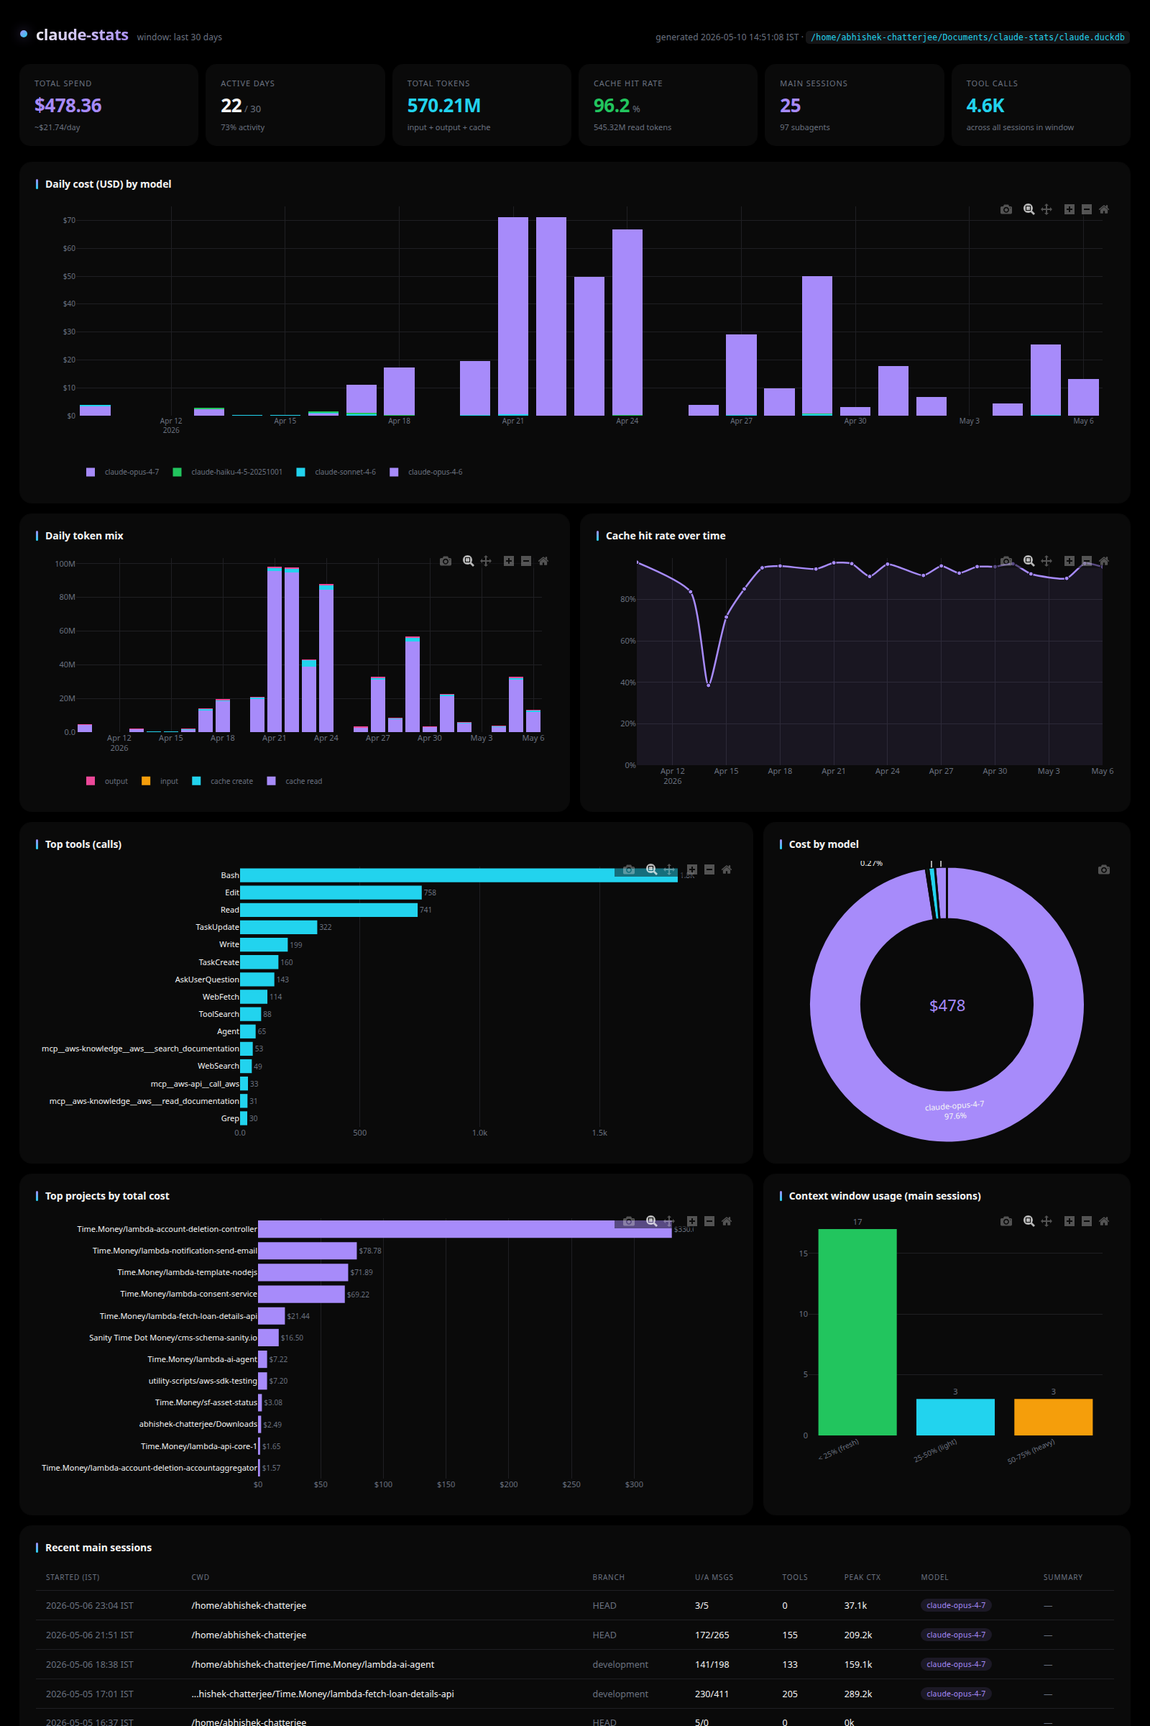
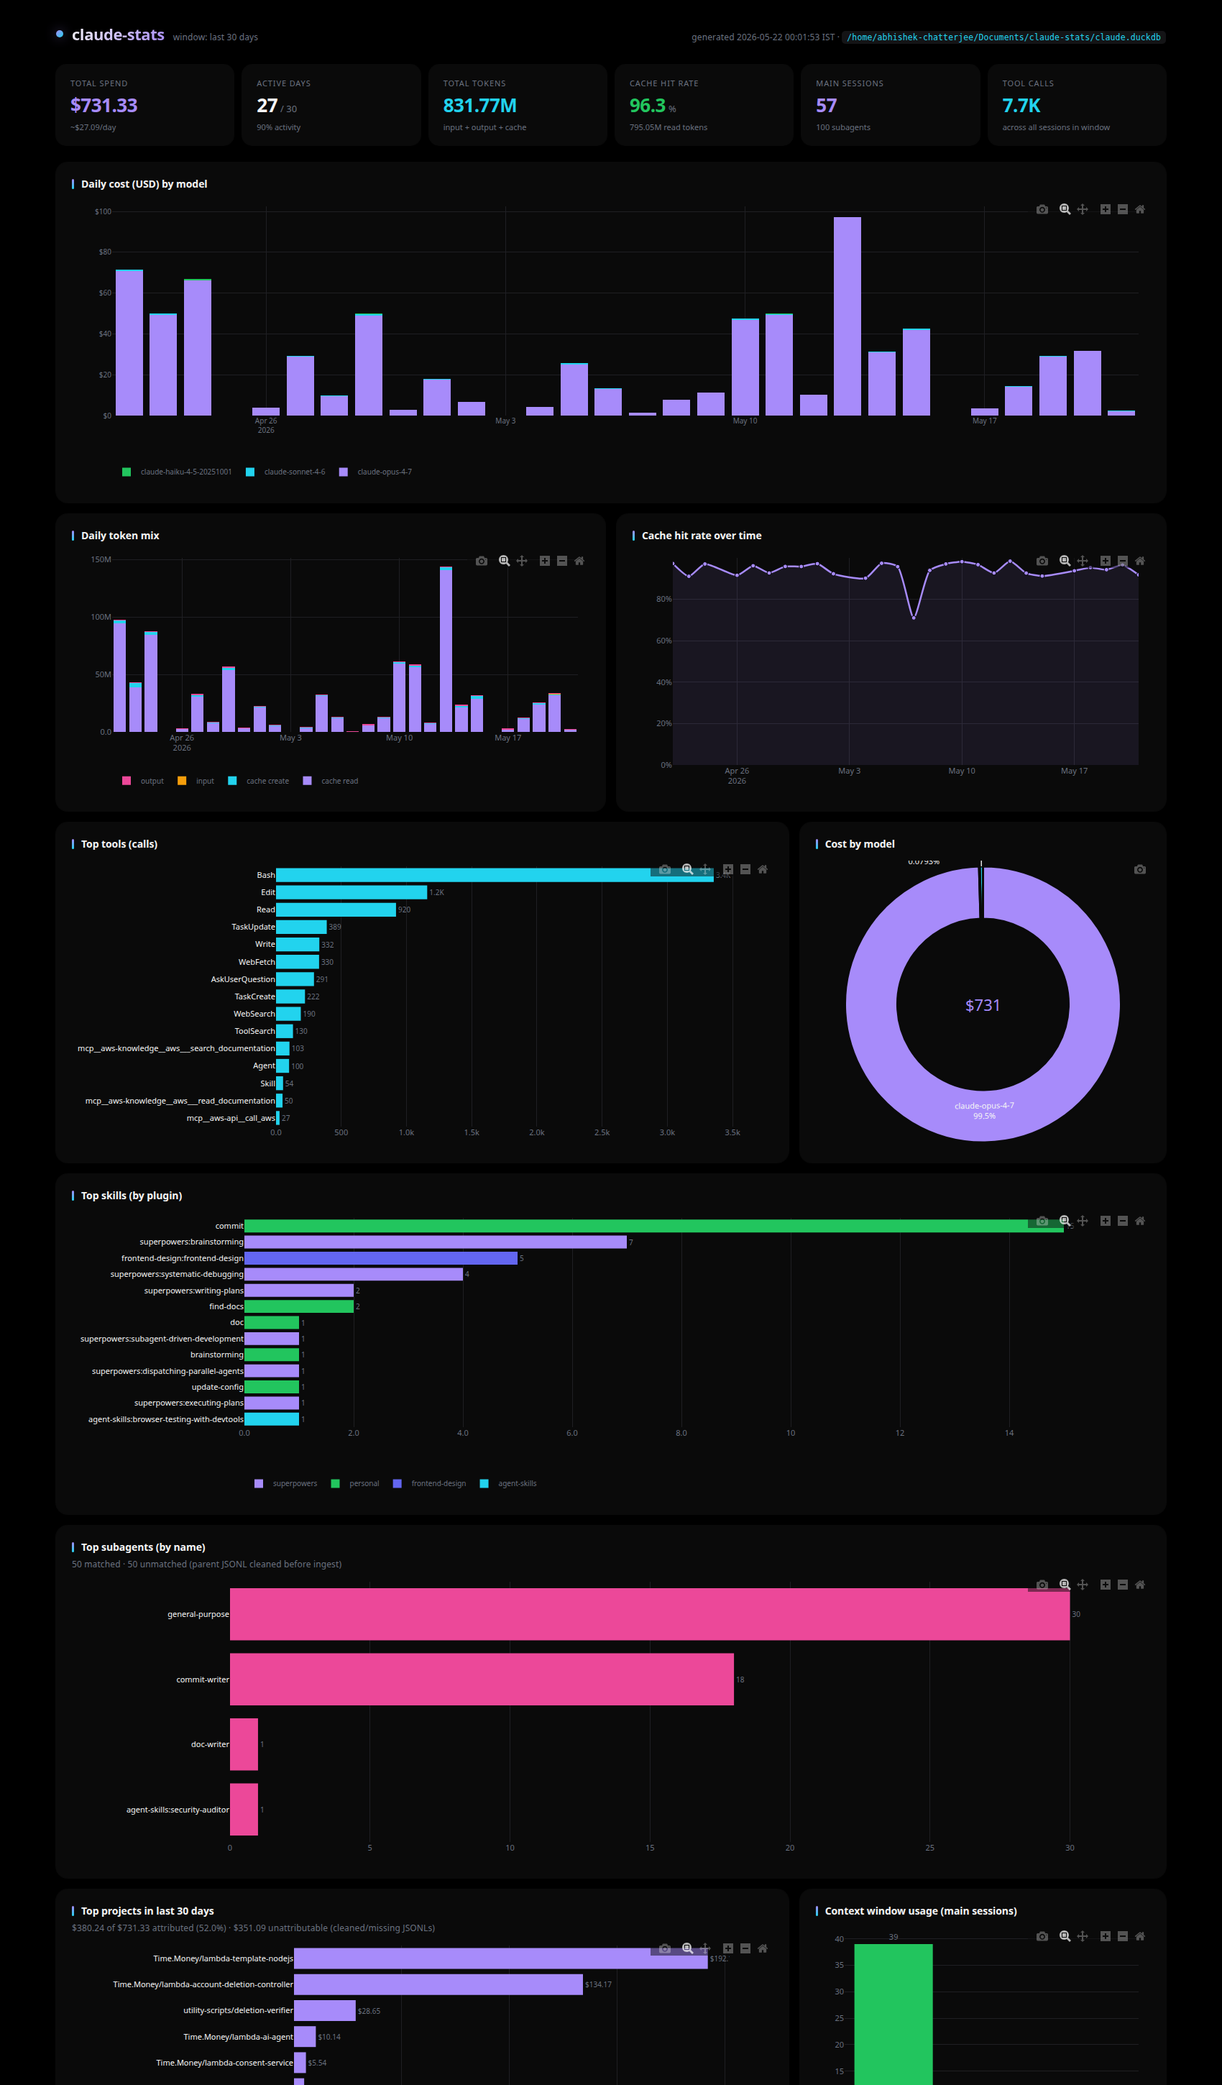
feat: add per-subagent name attribution (v5)
- schema.sql: ADD COLUMN IF NOT EXISTS agent_type VARCHAR on
  conversations (nullable; only populated for kind='subagent' when
  parent JSONL is on disk)
- ingest-sessions.py: two-pass match — pass 1 extracts Agent tool_use
  subagent_type and pairs it to the agentId hex via regex on tool_result
  content; pass 2 backfills agent_type on all subagent rows using the
  merged map; prints matched/total count
- build-dashboard.sh: two new DuckDB queries (TOP_SUBAGENTS,
  SUBAGENT_COVERAGE) and a renderSubagents() Plotly horizontal bar
  panel inserted between Top Skills and Top Projects; footer shows
  matched · unmatched counts
- README.md, docs/index.html, docs/claude-stats.html,
  docs/walkthrough.html: document new column, panel, two-pass
  algorithm, and updated query count (10→12)
- docs/claude-stats-dashboard.png: refreshed screenshot showing the
  new subagents panel

diff --git a/docs/claude-stats.html b/docs/claude-stats.html
@@ -41,9 +41,10 @@
                     <code>build-dashboard.sh</code> to regenerate
                     <code>/tmp/claude-stats-dashboard.html</code>, then
                     <code>xdg-open</code>s it. Plotly charts: cost stacked-by-model,
-                    daily token mix, cache hit rate, top tools, cost-by-model donut,
-                    top projects, context-window distribution. Pass <code>30</code> /
-                    <code>90</code> / <code>365</code> for different windows.
+                    daily token mix, cache hit rate, top tools, top skills (grouped by
+                    plugin), <strong>top subagents broken out by name</strong>,
+                    cost-by-model donut, top projects, context-window distribution. Pass
+                    <code>30</code> / <code>90</code> / <code>365</code> for different windows.
                 </div>
             </div>
         </div>
@@ -195,11 +196,29 @@ SELECT date, model, input_tokens, output_tokens,
         <ul class="tight">
             <li><code>started_at</code> / <code>ended_at</code> = min/max <code>timestamp</code> across lines</li>
             <li><code>cwd</code> / <code>gitBranch</code> = first non-null occurrence (sticky)</li>
-            <li><code>type=user</code> → increment <code>n_user_msgs</code></li>
-            <li><code>type=assistant</code> → increment <code>n_assistant_msgs</code>; track peak context (<code>input + cache_create + cache_read</code>); count tool-use blocks in <code>content[]</code>; for blocks with <code>name=Skill</code>, also count <code>input.skill</code> into a per-session skill tally</li>
+            <li><code>type=user</code> → increment <code>n_user_msgs</code>; for main sessions, scan <code>tool_result</code> blocks for <code>"agentId: &lt;hex&gt;"</code> and pair the hex back to the subagent_type from the matching <code>Agent</code> tool_use (see "Subagent name attribution" below)</li>
+            <li><code>type=assistant</code> → increment <code>n_assistant_msgs</code>; track peak context (<code>input + cache_create + cache_read</code>); count tool-use blocks in <code>content[]</code>; for blocks with <code>name=Skill</code>, also count <code>input.skill</code> into a per-session skill tally; for <code>name=Agent</code> (subagent dispatch), record <code>(tool_use_id → input.subagent_type)</code> for the agentId lookup above</li>
             <li><code>type=summary</code> → first one wins, capped at 500 chars</li>
             <li>Files with zero user+assistant msgs are skipped</li>
         </ul>
+
+        <h3>Subagent name attribution <span class="badge subtle">v5</span></h3>
+        <p style="color:var(--fg-dim);font-size:13px;">
+            Subagent JSONLs only know their own <code>agentId</code> — the
+            human-readable type (<code>general-purpose</code>,
+            <code>commit-writer</code>, etc.) lives in the <em>parent's</em>
+            <code>Agent</code> tool_use. <code>ingest-sessions.py</code> does a
+            two-pass match:
+        </p>
+        <ul class="tight">
+            <li>Pass 1: while parsing each main session, accumulate two maps — <code>tool_use_id → subagent_type</code> from <code>Agent</code> tool_use blocks, and <code>agent_id → subagent_type</code> by regex-matching <code>"agentId: &lt;hex&gt;"</code> out of the corresponding <code>tool_result</code>. Merge into a global map.</li>
+            <li>Pass 2: every subagent JSONL filename is <code>agent-&lt;hex&gt;.jsonl</code>. Strip the prefix, look up the type in the global map, write to <code>conversations.agent_type</code>. Subagents whose parent JSONL was already cleaned off disk stay <code>NULL</code> — the dashboard surfaces the unmatched count in the panel footer.</li>
+        </ul>
+        <p style="color:var(--fg-dim);font-size:13px;">
+            Steady-state match rate on currently-present JSONLs is ~94%. The
+            unmatched bucket only ever shrinks as older transcripts age out of
+            the 30-day display window.
+        </p>
 
         <h3>Storage</h3>
         <ul class="tight">
@@ -222,13 +241,13 @@ SELECT date, model, input_tokens, output_tokens,
     <section id="dashboard">
         <h2>How <code>build-dashboard.sh</code> works</h2>
         <p class="lead">
-            Self-contained HTML generator. Runs ~9 DuckDB queries, embeds the
+            Self-contained HTML generator. Runs ~12 DuckDB queries, embeds the
             results as a JSON literal in the page, ships Plotly via CDN, and lets
             the browser render everything client-side. No build step, no server.
         </p>
 
         <div class="flow">
-            <div class="box cyan"><div class="label">1. query</div>10× DuckDB<br><span style="color:var(--fg-muted)">-readonly -json</span></div>
+            <div class="box cyan"><div class="label">1. query</div>12× DuckDB<br><span style="color:var(--fg-muted)">-readonly -json</span></div>
             <div class="arrow">→</div>
             <div class="box"><div class="label">2. emit</div>HEREDOC HTML<br><span style="color:var(--fg-muted)">CSS + structure</span></div>
             <div class="arrow">→</div>
@@ -237,7 +256,7 @@ SELECT date, model, input_tokens, output_tokens,
             <div class="box good"><div class="label">4. open</div>xdg-open<br><span style="color:var(--fg-muted)">Plotly renders</span></div>
         </div>
 
-        <h3>The 10 queries embedded as <code>DATA</code></h3>
+        <h3>The 12 queries embedded as <code>DATA</code></h3>
         <div class="cmd-table">
             <div class="cmd-row"><div class="cmd">stats</div><div class="desc">6 KPI numbers (total cost, active days, total tokens, cache hit %, main sessions, tool calls).</div></div>
             <div class="cmd-row"><div class="cmd">dailyCost</div><div class="desc">Per (date × model) for the window — feeds the stacked-bar chart.</div></div>
@@ -246,6 +265,8 @@ SELECT date, model, input_tokens, output_tokens,
             <div class="cmd-row"><div class="cmd">cacheTrend</div><div class="desc">Cache hit % per date — feeds the spline + area chart.</div></div>
             <div class="cmd-row"><div class="cmd">topTools</div><div class="desc">Top 15 tools by total calls, with session count.</div></div>
             <div class="cmd-row"><div class="cmd">topSkills</div><div class="desc">Top 20 skills by total calls, split into <code>plugin</code> + <code>skill</code> for grouped/colored bars.</div></div>
+            <div class="cmd-row"><div class="cmd">topSubagents <span class="badge subtle">v5</span></div><div class="desc">Top 20 subagent types in the window — <code>SELECT agent_type, COUNT(*) AS sessions, SUM(n_tool_calls), AVG(n_tool_calls) FROM conversations WHERE kind='subagent' AND agent_type IS NOT NULL GROUP BY agent_type</code>. Drives the pink horizontal-bar panel.</div></div>
+            <div class="cmd-row"><div class="cmd">subagentCoverage <span class="badge subtle">v5</span></div><div class="desc">Two-column scalar: matched vs unmatched subagent rows in the window. Surfaces how many subagents are missing a parent JSONL (and therefore a name) — shown in the panel's footer.</div></div>
             <div class="cmd-row"><div class="cmd">topRepos</div><div class="desc">Top 12 projects in the window, from <code>project_daily_usage</code>. Cost is windowed (<code>SUM(cost) WHERE date &gt;= window GROUP BY project_path</code>) and reconciles to the cent against <code>daily_usage</code> for any date that was captured at ingest time.</div></div>
             <div class="cmd-row"><div class="cmd">attribution</div><div class="desc">Total/attributed/unattributed/% for the window. Surfaces how much of the windowed spend can still be tied to a project (vs. lost when JSONLs were <code>claude-clean</code>'d before being captured).</div></div>
             <div class="cmd-row"><div class="cmd">contextDist</div><div class="desc">Sessions bucketed by % of model context window used.</div></div>
@@ -325,6 +346,7 @@ SELECT date, model, input_tokens, output_tokens,
                 <tr><td class="col">max_context_tokens</td><td class="type">BIGINT</td><td class="note">Peak context size seen in any assistant turn</td></tr>
                 <tr><td class="col">model</td><td class="type">VARCHAR</td><td class="note">Model in use at the peak-context turn</td></tr>
                 <tr><td class="col">summary</td><td class="type">VARCHAR</td><td class="note">First <code>type=summary</code> event, capped at 500 chars</td></tr>
+                <tr><td class="col">agent_type <span class="badge subtle">v5</span></td><td class="type">VARCHAR</td><td class="note">Nullable. For <code>kind='subagent'</code>: the subagent_type from the parent's <code>Agent</code> tool_use (e.g. <code>general-purpose</code>, <code>commit-writer</code>). <code>NULL</code> for main sessions and for subagents whose parent JSONL is missing at ingest time. Queries must filter <code>WHERE kind='subagent' AND agent_type IS NOT NULL</code>.</td></tr>
             </tbody>
         </table>
 

diff --git a/docs/walkthrough.html b/docs/walkthrough.html
@@ -695,7 +695,7 @@ proc = subprocess.run([str(DUCKDB), str(DB)], input=sql, text=True, capture_outp
       <section id="cs-schema">
         <h2>claude-stats · schema.sql</h2>
         <p class="meta">~/Documents/pulse/claude-stats/schema.sql · 79 lines · sql</p>
-        <p class="intro">Five tables, all <code>CREATE TABLE IF NOT EXISTS</code> so <code>install.sh</code> can re-run safely. The schema versions itself in comments (v2 added subagent classification, v3 added skills, v4 split project cost out of <code>conversations</code>).</p>
+        <p class="intro">Five tables, all <code>CREATE TABLE IF NOT EXISTS</code> so <code>install.sh</code> can re-run safely. The schema versions itself in comments (v2 added subagent classification, v3 added skills, v4 split project cost out of <code>conversations</code>, v5 added <code>agent_type</code> for per-subagent name attribution).</p>
 
         <details class="script">
           <summary><span class="chev">▶</span><span class="fname">schema.sql</span><span class="desc">3 blocks · the 5 tables</span></summary>

diff --git a/docs/index.html b/docs/index.html
@@ -26,7 +26,7 @@
                 <h3><span class="accent">●</span> claude-stats →</h3>
                 <p class="desc">
                     Where your Claude Code spend goes. Cost by model, cache hit-rate,
-                    top tools, top skills (per plugin), top projects, context-window pressure.
+                    top tools, top skills (per plugin), top subagents (by name), top projects, context-window pressure.
                 </p>
                 <div class="meta">
                     <span>5 DuckDB tables</span><span>4 fish subcommands</span><span>nightly 02:00 ingest</span>

diff --git a/claude-stats/bin/ingest-sessions.py b/claude-stats/bin/ingest-sessions.py
@@ -14,6 +14,7 @@ source of truth for the dashboard's "Top projects" panel.)
 import csv
 import json
 import os
+import re
 import shutil
 import subprocess
 import sys
@@ -25,6 +26,11 @@ HOME = Path.home()
 PROJECTS = HOME / ".claude" / "projects"
 DB = HOME / "Documents" / "claude-stats" / "claude.duckdb"
 DUCKDB = HOME / ".local" / "bin" / "duckdb"
+
+# Subagent dispatch leaves "agentId: <hex>" in the parent's tool_result text.
+# That hex id matches the subagent JSONL filename (agent-<id>.jsonl), so we can
+# pair subagents with their subagent_type without depending on dispatch order.
+AGENT_ID_RE = re.compile(r"agentId:\s*([0-9a-f]+)")
 
 os.environ["PATH"] = (
     f"{HOME}/.nvm/versions/node/v24.14.1/bin:/usr/bin:/bin:" + os.environ.get("PATH", "")
@@ -46,6 +52,15 @@ def classify_path(path: Path):
 
 
 def parse_jsonl(path: Path):
+    """Parse one JSONL.
+
+    Returns (conv, tool_items, skill_items, agent_id_to_type) or None.
+
+    agent_id_to_type is only populated when kind='main' — it maps the agentId
+    extracted from each tool_result back to the subagent_type from the matching
+    Agent tool_use. The caller merges these across all parents and uses the
+    map to backfill the agent_type column on subagent rows.
+    """
     session_id = path.stem
     kind, project_path, parent_sid = classify_path(path)
     started_at = ended_at = cwd = git_branch = summary = None
@@ -54,6 +69,8 @@ def parse_jsonl(path: Path):
     max_ctx_model = ""
     tools: Counter = Counter()
     skills: Counter = Counter()
+    pending_agent_uses: dict = {}  # tool_use_id -> subagent_type (main only)
+    agent_id_to_type: dict = {}    # agent_id    -> subagent_type (main only)
 
     try:
         with path.open(errors="replace") as f:
@@ -82,6 +99,22 @@ def parse_jsonl(path: Path):
                     summary = d.get("summary")
                 elif t == "user":
                     n_user += 1
+                    if kind == "main" and pending_agent_uses:
+                        msg = d.get("message", {}) or {}
+                        content = msg.get("content") or []
+                        if isinstance(content, list):
+                            for block in content:
+                                if not isinstance(block, dict):
+                                    continue
+                                if block.get("type") != "tool_result":
+                                    continue
+                                tuid = block.get("tool_use_id")
+                                sub_type = pending_agent_uses.get(tuid)
+                                if not sub_type:
+                                    continue
+                                m = AGENT_ID_RE.search(json.dumps(block.get("content")))
+                                if m:
+                                    agent_id_to_type[m.group(1)] = sub_type
                 elif t == "assistant":
                     n_assistant += 1
                     msg = d.get("message", {}) or {}
@@ -107,6 +140,11 @@ def parse_jsonl(path: Path):
                                     skill_name = (block.get("input") or {}).get("skill")
                                     if skill_name:
                                         skills[skill_name] += 1
+                                elif name == "Agent" and kind == "main":
+                                    sub_type = (block.get("input") or {}).get("subagent_type")
+                                    tuid = block.get("id")
+                                    if sub_type and tuid:
+                                        pending_agent_uses[tuid] = sub_type
     except OSError as e:
         print(f"[ingest-sessions] skip {path}: {e}", file=sys.stderr)
         return None
@@ -129,8 +167,9 @@ def parse_jsonl(path: Path):
         "max_context_tokens": max_ctx,
         "model": max_ctx_model,
         "summary": (summary or "")[:500],
+        "agent_type": "",  # backfilled for subagents in main()
     }
-    return conv, list(tools.items()), list(skills.items())
+    return conv, list(tools.items()), list(skills.items()), agent_id_to_type
 
 
 def write_csv(rows, columns, path):
@@ -151,16 +190,17 @@ SELECT * FROM read_csv('{tmpdir}/conversations.csv',
     'started_at': 'TIMESTAMP', 'ended_at': 'TIMESTAMP',
     'n_user_msgs': 'INTEGER', 'n_assistant_msgs': 'INTEGER',
     'n_tool_calls': 'INTEGER', 'max_context_tokens': 'BIGINT',
-    'model': 'VARCHAR', 'summary': 'VARCHAR'
+    'model': 'VARCHAR', 'summary': 'VARCHAR', 'agent_type': 'VARCHAR'
   }});
 
 INSERT OR REPLACE INTO conversations
   (session_id, project_path, cwd, git_branch, kind, parent_session_id,
    started_at, ended_at, n_user_msgs, n_assistant_msgs, n_tool_calls,
-   max_context_tokens, model, summary, ingested_at)
+   max_context_tokens, model, summary, agent_type, ingested_at)
 SELECT session_id, project_path, cwd, git_branch, kind, parent_session_id,
        started_at, ended_at, n_user_msgs, n_assistant_msgs, n_tool_calls,
-       max_context_tokens, model, summary, CURRENT_TIMESTAMP
+       max_context_tokens, model, summary,
+       NULLIF(agent_type, '') AS agent_type, CURRENT_TIMESTAMP
 FROM staging_conv;
 
 CREATE OR REPLACE TEMP TABLE staging_tools AS
@@ -201,12 +241,15 @@ def main():
     tmpdir = Path(tempfile.mkdtemp(prefix="claude-stats-"))
     try:
         conv_rows, tool_rows, skill_rows = [], [], []
+        agent_type_map: dict = {}  # agent_id -> subagent_type, merged across all parents
+
         for jsonl in sorted(PROJECTS.rglob("*.jsonl")):
             result = parse_jsonl(jsonl)
             if not result:
                 continue
-            conv, tools, skills = result
+            conv, tools, skills, agent_map = result
             conv_rows.append(conv)
+            agent_type_map.update(agent_map)
             for tool_name, count in tools:
                 tool_rows.append(
                     {"session_id": conv["session_id"], "tool_name": tool_name, "call_count": count}
@@ -216,15 +259,31 @@ def main():
                     {"session_id": conv["session_id"], "skill_name": skill_name, "call_count": count}
                 )
 
+        # Backfill agent_type on subagent rows now that we've seen all parents.
+        # Subagent JSONL filenames are `agent-<hex>.jsonl`, so session_id == "agent-<hex>".
+        matched = total_sub = 0
+        for conv in conv_rows:
+            if conv["kind"] != "subagent":
+                continue
+            total_sub += 1
+            sid = conv["session_id"]
+            if sid.startswith("agent-"):
+                aid = sid[len("agent-"):]
+                t = agent_type_map.get(aid)
+                if t:
+                    conv["agent_type"] = t
+                    matched += 1
+
         write_csv(
             conv_rows,
             ["session_id", "project_path", "cwd", "git_branch", "kind", "parent_session_id",
              "started_at", "ended_at", "n_user_msgs", "n_assistant_msgs", "n_tool_calls",
-             "max_context_tokens", "model", "summary"],
+             "max_context_tokens", "model", "summary", "agent_type"],
             tmpdir / "conversations.csv",
         )
         write_csv(tool_rows, ["session_id", "tool_name", "call_count"], tmpdir / "tools.csv")
         write_csv(skill_rows, ["session_id", "skill_name", "call_count"], tmpdir / "skills.csv")
+        print(f"[ingest-sessions] subagent agent_type matched: {matched}/{total_sub}")
         duckdb_load(str(tmpdir))
     finally:
         shutil.rmtree(tmpdir, ignore_errors=True)

diff --git a/README.md b/README.md
@@ -9,7 +9,7 @@ straight from `/tmp`.
 
 | | |
 |---|---|
-| **claude-stats** | Where your Claude Code spend goes. Cost by model, cache hit-rate, top tools, top skills (per plugin), top projects, context-window pressure. |
+| **claude-stats** | Where your Claude Code spend goes. Cost by model, cache hit-rate, top tools, top skills (per plugin), **top subagents (by name)**, top projects, context-window pressure. |
 | **battery-stats** | Real Screen-On-Time, drain-rate, battery health, hourly drain heatmap, charging-period bands. |
 
 Both share an AMOLED dark theme (true `#000000`, electric purple + cyan
@@ -31,8 +31,9 @@ claude-stats dashboard 365      # last year
 
 The dashboard is the surface — every metric is in there: cost stacked by
 model, daily token mix, cache hit rate, top tools, top skills grouped by
-plugin, top projects, context-window distribution. No terminal-table
-fallbacks; the graphs say more in less space.
+plugin, **top subagents broken out by name** (e.g. `general-purpose`,
+`commit-writer`), top projects, context-window distribution. No
+terminal-table fallbacks; the graphs say more in less space.
 
 ### battery-stats
 
